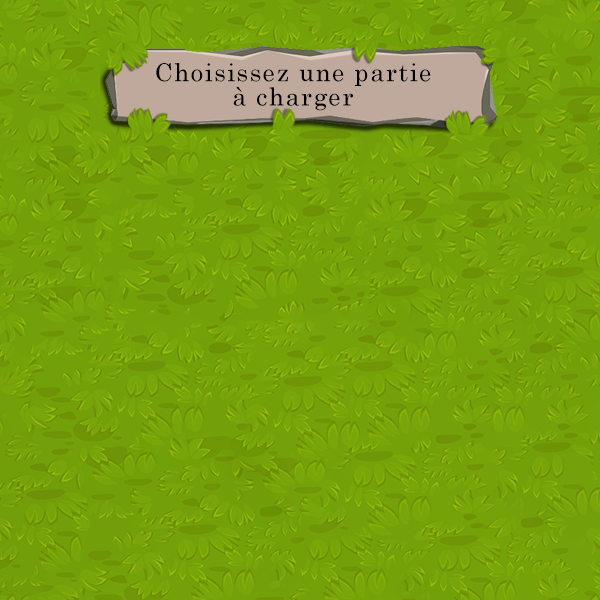
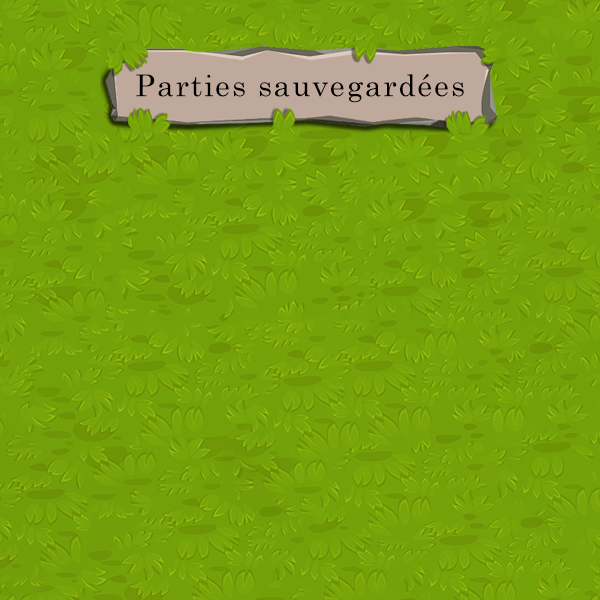
option supprimer une partie sauvegardée

Changed region(s): [[0.21, 0.09, 0.78, 0.18]]

diff --git a/src/view/InterfaceGraphiqueChargerPartie.java b/src/view/InterfaceGraphiqueChargerPartie.java
@@ -6,6 +6,8 @@ import java.awt.Font;
 import java.awt.Image;
 import java.awt.Point;
 import java.awt.Toolkit;
+import java.awt.event.ActionEvent;
+import java.awt.event.ActionListener;
 import java.io.IOException;
 import java.sql.ResultSet;
 import java.sql.SQLException;
@@ -31,6 +33,7 @@ public class InterfaceGraphiqueChargerPartie implements Runnable {
 	private static JFrame fenetreChargerPartie;
 	private static CollecteurEvenements controle;
 	private static List<JButton> parties = new ArrayList<JButton>();
+	private static List<JButton> supprimer = new ArrayList<JButton>();
 	ResultSet rs;
 	SauvegarderPartie_DAO sp_dao;
 	private InterfaceGraphiqueChargerPartie(CollecteurEvenements controle) {
@@ -56,8 +59,8 @@ public class InterfaceGraphiqueChargerPartie implements Runnable {
 		}
 	}
 	
-	private static ButtonCustom createButtonChargerPartie(String name, int x, int y) {
-		ButtonCustom button = new ButtonCustom(name, "contourChargePartie", new Dimension(150, 150), new Font("Century", Font.PLAIN, 15));
+	private static ButtonCustom createButtonPartie(String name, String choix, int x, int y) {
+		ButtonCustom button = new ButtonCustom(name, "contour"+choix+"Partie", new Dimension(150, 150), new Font("Century", Font.PLAIN, 15));
 		button.setBounds(x, y, 150, 150);
 		button.setHorizontalTextPosition(SwingConstants.CENTER);
 		return button;
@@ -65,10 +68,12 @@ public class InterfaceGraphiqueChargerPartie implements Runnable {
 
 	@Override
 	public void run() {
-		fenetreChargerPartie = new JFrame("EN GARDE ! - CHARGER UNE PARTIE");
+		fenetreChargerPartie = new JFrame("EN GARDE ! - PARTIES SAUVEGARDEES");
 		fenetreChargerPartie.setIconImage(Configuration.imgIcone);
 		JLabel contentPane = null;
 		String name = "Vide";
+		String supp = "Supprime";
+		String charge = "Charge";
 		try {
 			contentPane = new JLabel(new ImageIcon(ImageIO.read(Configuration.charge("fondChargePartie.png", Configuration.MENU))));
 			fenetreChargerPartie.setCursor(Toolkit.getDefaultToolkit().createCustomCursor(ImageIO.read(Configuration.charge("curseur.png", Configuration.AUTRES)),new Point(0,0),"Mon curseur"));
@@ -83,26 +88,57 @@ public class InterfaceGraphiqueChargerPartie implements Runnable {
 		int x3 = 395;
 		int y1 = 161;
 		int y2 = 322;
-		parties.add(createButtonChargerPartie(name, x1, y1));
-		parties.add(createButtonChargerPartie(name, x2, y1));
-		parties.add(createButtonChargerPartie(name, x3, y1));
-		parties.add(createButtonChargerPartie(name, x1, y2));
-		parties.add(createButtonChargerPartie(name, x2, y2));
-		parties.add(createButtonChargerPartie(name, x3, y2));
+		parties.add(createButtonPartie(name, charge, x1, y1));
+		supprimer.add(createButtonPartie(name, supp, x1, y1));
+		
+		parties.add(createButtonPartie(name, charge, x2, y1));
+		supprimer.add(createButtonPartie(name, supp, x2, y1));
+		
+		parties.add(createButtonPartie(name, charge, x3, y1));
+		supprimer.add(createButtonPartie(name, supp, x3, y1));
+		
+		parties.add(createButtonPartie(name, charge, x1, y2));
+		supprimer.add(createButtonPartie(name, supp, x1, y2));
+		
+		parties.add(createButtonPartie(name, charge, x2, y2));
+		supprimer.add(createButtonPartie(name, supp, x2, y2));
+		
+		parties.add(createButtonPartie(name, charge, x3, y2));
+		supprimer.add(createButtonPartie(name, supp, x3, y2));
 
 		JButton annuler = new ButtonCustom("Annuler", "cadre4", new Dimension(150, 40), new Font("Century", Font.PLAIN, 15));
 		annuler.addActionListener(new AdaptateurCommande(controle, "annuler"));
 		annuler.setBounds(35, 500, 150, 40);
 		annuler.setForeground(Color.WHITE);
+		
+		JButton supprimerPartie = new ButtonCustom("Supprimer une partie", "cadre3", new Dimension(300, 40), new Font("Century", Font.PLAIN, 15));
+		supprimerPartie.addActionListener(new ActionListener() {
+			private Boolean clic = false;
+			@Override
+			public void actionPerformed(ActionEvent e) {
+				for(JButton Partie : parties) { Partie.setVisible(clic); }
+				for(JButton Supp : supprimer) { Supp.setVisible(!clic); }
+				clic = !clic;
+				JButton button = (JButton) e.getSource();
+				button.setText((clic ? "Charger " : "Supprimer ") + "une partie");
+			}
+			
+		});
+		supprimerPartie.setBounds(217, 500, 300, 40);
+		
 		try {
 			rs = sp_dao.getAll();
 			for(int i=0; i<6; i++) {
-				JButton button = parties.get(i);
+				JButton buttonCharge = parties.get(i);
+				JButton buttonSupp = supprimer.get(i);
 				rs.next();
 				name = "<HTML><BODY><center>"+rs.getString("idPartie")+"<BR>"+rs.getString("nomJoueurG")+"<BR>"+rs.getString("nomJoueurD")+"</center></BODY></HTML>";
-				button.setText(name);
-				button.setHorizontalAlignment(SwingConstants.CENTER);
-				button.addActionListener(new AdaptateurChargerPartie(controle,rs.getInt("idPartie")));
+				buttonCharge.setText(name);
+				buttonSupp.setText(name);
+				buttonCharge.setHorizontalAlignment(SwingConstants.CENTER);
+				buttonSupp.setHorizontalAlignment(SwingConstants.CENTER);
+				buttonCharge.addActionListener(new AdaptateurSauvPartie(controle,rs.getInt("idPartie"), "Charger"));
+				buttonSupp.addActionListener(new AdaptateurSauvPartie(controle,rs.getInt("idPartie"), "Supprimer"));
 			}
 		} catch (SQLException e) {
 			System.out.println("Pas plus de parties enregistrees");
@@ -111,7 +147,12 @@ public class InterfaceGraphiqueChargerPartie implements Runnable {
 		for(JButton Partie : parties) {
 			contentPane.add(Partie);
 		}
+		for(JButton Supp : supprimer) {
+			Supp.setVisible(false);
+			contentPane.add(Supp);
+		}
 		contentPane.add(annuler);
+		contentPane.add(supprimerPartie);
 
 		fenetreChargerPartie.setDefaultCloseOperation(JFrame.DISPOSE_ON_CLOSE);
 		fenetreChargerPartie.setBounds(100, 100, 600, 600);

diff --git a/src/view/AdaptateurSauvPartie.java b/src/view/AdaptateurSauvPartie.java
@@ -1,0 +1,23 @@
+package view;
+
+import java.awt.event.ActionEvent;
+import java.awt.event.ActionListener;
+
+public class AdaptateurSauvPartie implements ActionListener {
+	
+	private CollecteurEvenements control;
+	private int id;
+	private String choix;
+	
+	AdaptateurSauvPartie(CollecteurEvenements controle, int id, String choix) {
+		control = controle;
+		this.id = id;
+		this.choix = choix;
+	}
+	
+	@Override
+	public void actionPerformed(ActionEvent e) {
+		if(choix.equals("Charger")) {control.chargerPartie(id);}
+		else if (choix.equals("Supprimer")) {control.supprimerPartie(id);}
+	}
+}

diff --git a/src/view/InterfaceGraphiqueActionAnnexe.java b/src/view/InterfaceGraphiqueActionAnnexe.java
@@ -238,7 +238,6 @@ public class InterfaceGraphiqueActionAnnexe extends WindowAdapter implements Run
 				changeTour = !changeTour;
 				JButton button = (JButton) e.getSource();
 				button.setText((changeTour ? "Retablir " : "Accelerer ") + "changement tour");
-				System.out.println(changeTour + " : "+InterfaceGraphiqueJeu.ajoutVitesse);
 			}
 		});
 		changementTour.setBounds(92, 830, 200, 50);

diff --git a/src/view/CollecteurEvenements.java b/src/view/CollecteurEvenements.java
@@ -7,4 +7,5 @@ public interface CollecteurEvenements {
 	boolean clickCase(int x, int nbCarte);
 	boolean animation(String typeAnimation, Animation anim);
 	boolean chargerPartie(int id);
+	boolean supprimerPartie(int id);
 }
